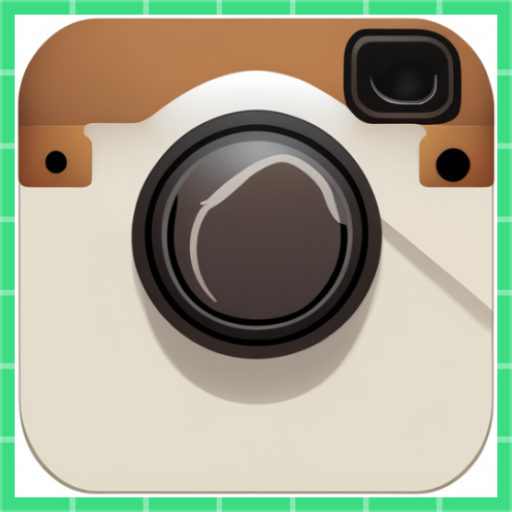
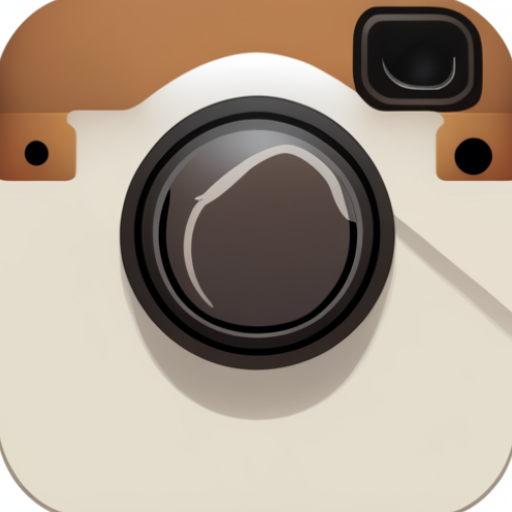
fix : 앱아이콘, 앱이름, tab3 레이아웃, tab1 연락처 추가 시 전화번호 숫자 키패트로 변경

diff --git a/app/src/main/java/com/example/madcamppj1/SendActivity.kt b/app/src/main/java/com/example/madcamppj1/SendActivity.kt
@@ -85,9 +85,10 @@ class SendActivity : AppCompatActivity() {
         }
 
 
-        val btn_stk1 = findViewById<Button>(R.id.btn_stk1)
-        val btn_stk2 = findViewById<Button>(R.id.btn_stk2)
-        val btn_stk3 = findViewById<Button>(R.id.btn_stk3)
+        val btn_stk1 = findViewById<ImageButton>(R.id.btn_stk1)
+        val btn_stk2 = findViewById<ImageButton>(R.id.btn_stk2)
+        val btn_stk3 = findViewById<ImageButton>(R.id.btn_stk3)
+        val btn_stk4 = findViewById<ImageButton>(R.id.btn_stk4)
 
         btn_stk1.setOnClickListener {
             stk_num = R.drawable.stk1
@@ -105,6 +106,13 @@ class SendActivity : AppCompatActivity() {
 
         btn_stk3.setOnClickListener {
             stk_num = R.drawable.stk3
+            stk_X = 140f
+            stk_Y = 200f
+            dispatchTakePictureIntent()
+        }
+
+        btn_stk4.setOnClickListener {
+            stk_num = R.drawable.stk4
             stk_X = 140f
             stk_Y = 200f
             dispatchTakePictureIntent()
